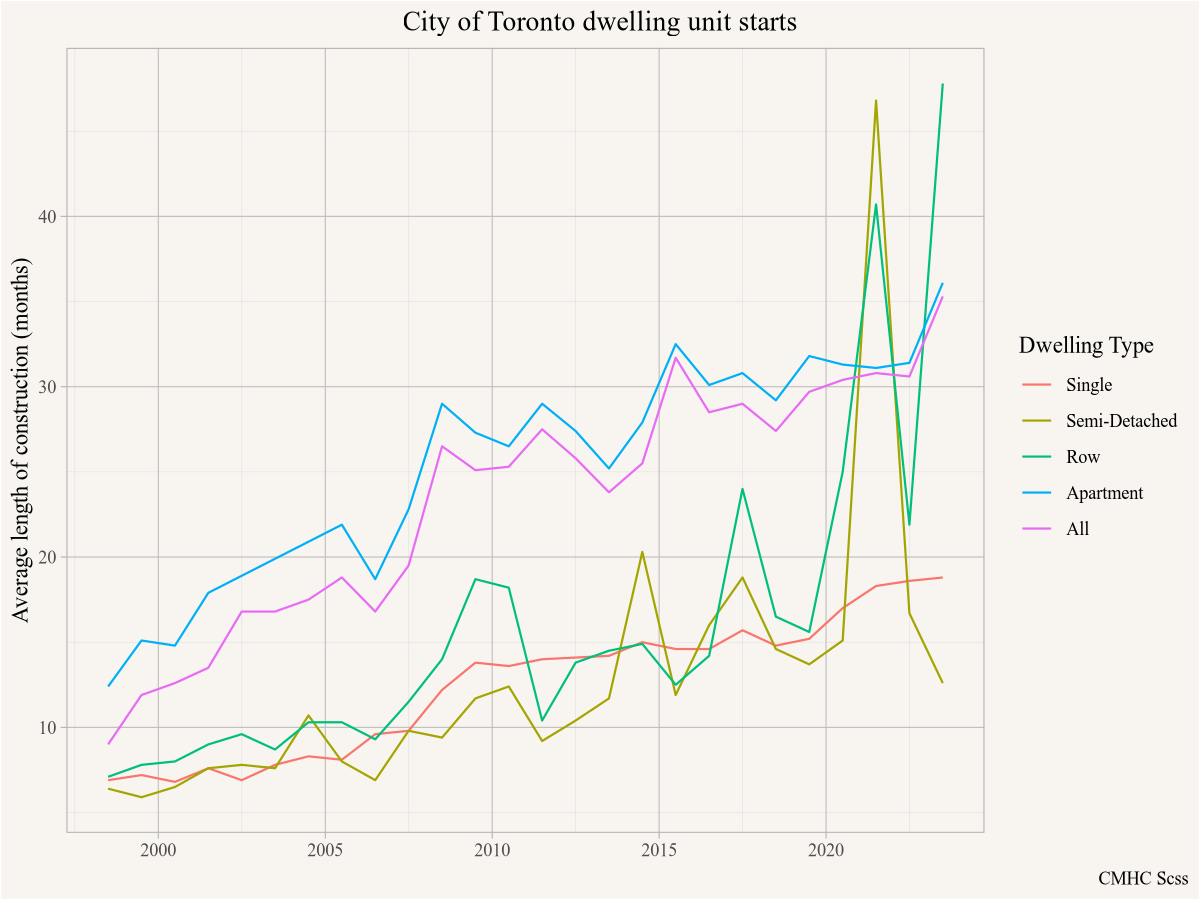
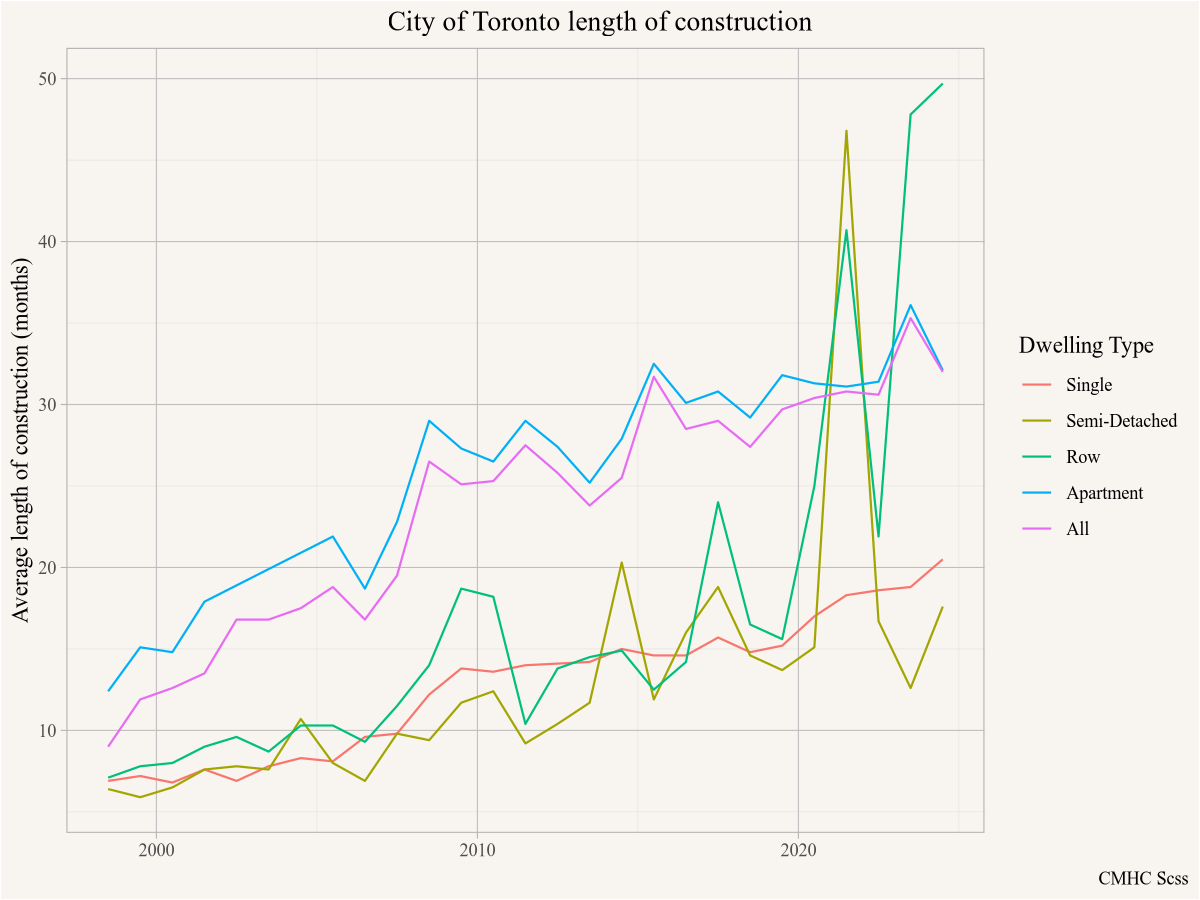
rerender under construction

diff --git a/docs/basic_descriptive/under_construction.html b/docs/basic_descriptive/under_construction.html
@@ -569,7 +569,7 @@ pre > code.sourceCode > span > a:first-child::before { text-decoration: underlin
 <span>  <span class="fu"><a href="https://ggplot2.tidyverse.org/reference/ggplot.html">ggplot</a></span><span class="op">(</span><span class="fu"><a href="https://ggplot2.tidyverse.org/reference/aes.html">aes</a></span><span class="op">(</span>x<span class="op">=</span><span class="va">Date</span>,y<span class="op">=</span><span class="va">Value</span>,colour<span class="op">=</span><span class="va">`Dwelling Type`</span><span class="op">)</span><span class="op">)</span> <span class="op">+</span></span>
 <span>  <span class="fu"><a href="https://ggplot2.tidyverse.org/reference/geom_path.html">geom_line</a></span><span class="op">(</span><span class="op">)</span> <span class="op">+</span></span>
 <span>  <span class="fu"><a href="https://ggplot2.tidyverse.org/reference/scale_continuous.html">scale_y_continuous</a></span><span class="op">(</span>labels<span class="op">=</span><span class="fu">scales</span><span class="fu">::</span><span class="va"><a href="https://scales.r-lib.org/reference/comma.html">comma</a></span><span class="op">)</span> <span class="op">+</span></span>
-<span>  <span class="fu"><a href="https://ggplot2.tidyverse.org/reference/labs.html">labs</a></span><span class="op">(</span>title<span class="op">=</span><span class="st">"City of Toronto dwelling unit starts"</span>,</span>
+<span>  <span class="fu"><a href="https://ggplot2.tidyverse.org/reference/labs.html">labs</a></span><span class="op">(</span>title<span class="op">=</span><span class="st">"City of Toronto length of construction"</span>,</span>
 <span>       x<span class="op">=</span><span class="cn">NULL</span>,y<span class="op">=</span><span class="st">"Average length of construction (months)"</span>,</span>
 <span>       caption<span class="op">=</span><span class="st">"CMHC Scss"</span><span class="op">)</span></span></code><button title="Copy to Clipboard" class="code-copy-button"><i class="bi"></i></button></pre></div>
 </details><div class="cell-output-display">
